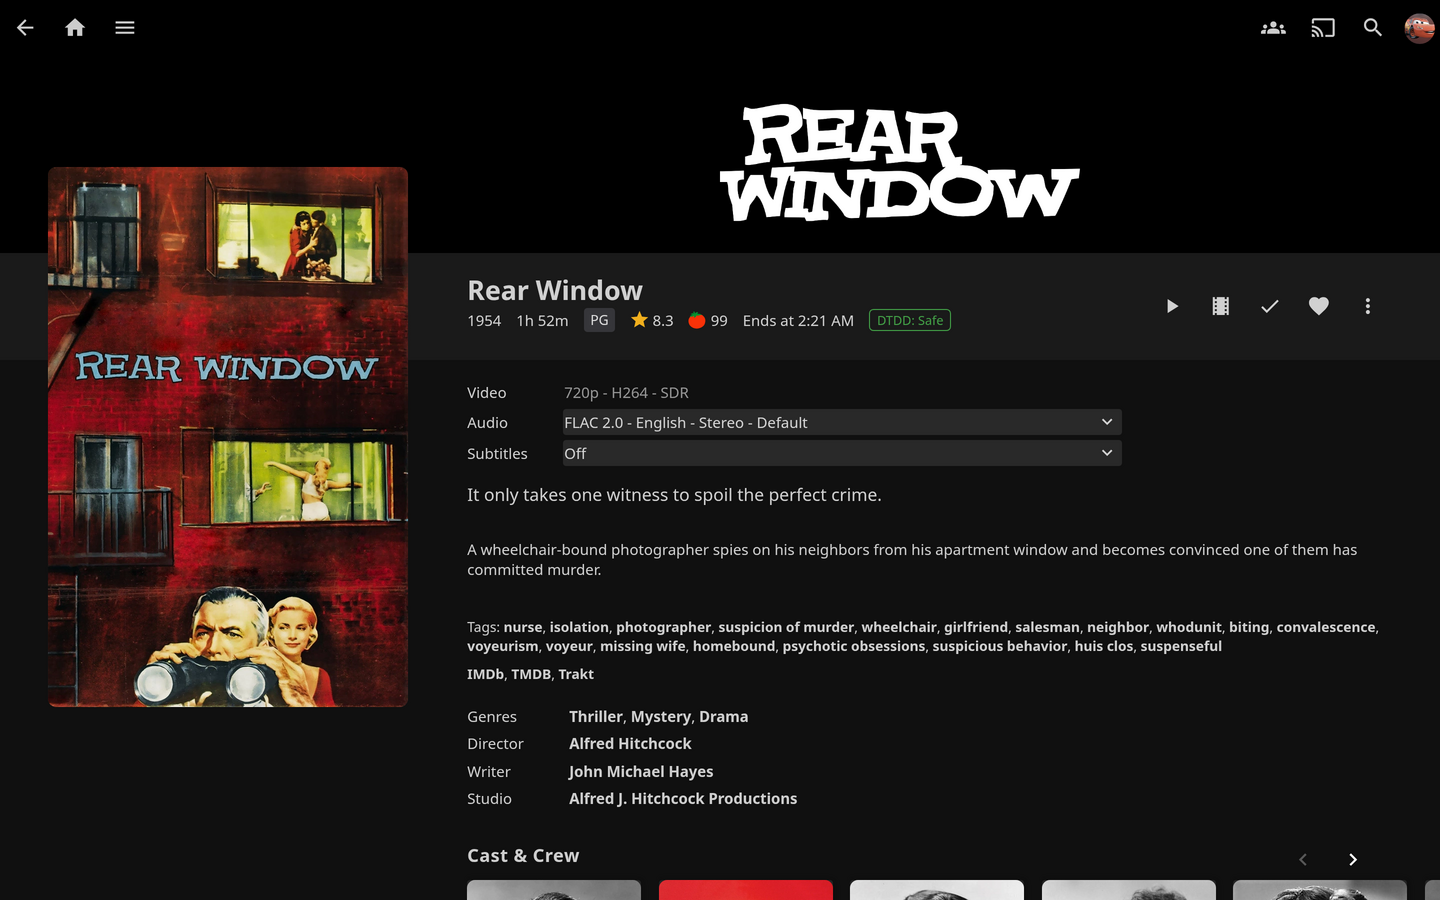
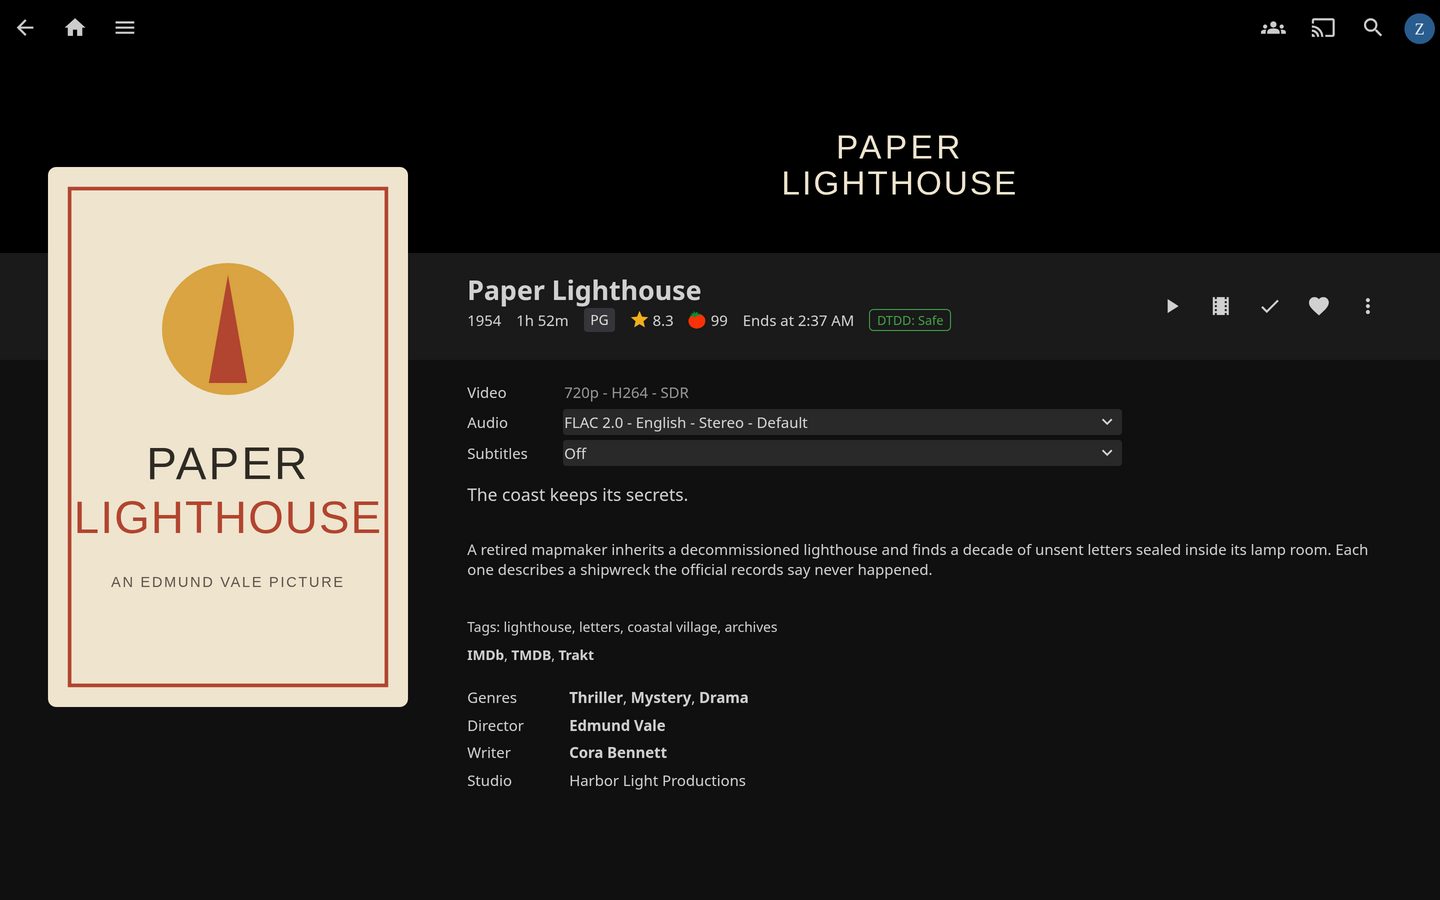
README screenshots: restage with fictional titles and original artwork
Replaces the real-movie captures with staged ones ('Winter Static',
'Paper Lighthouse'): fictional titles, synopses, credits, and generated
SVG posters/logos/avatar, so no third-party poster art or metadata text
ships in the public repo. The DTDD badges and picker are unchanged real
plugin output against the live server; a disclosure line under the
Screenshots heading says the demo titles are fictional.

diff --git a/README.md b/README.md
@@ -53,6 +53,8 @@ Install order:
 
 ## Screenshots
 
+_Screenshots are staged with fictional demo titles and original placeholder artwork; the DTDD badge, verdicts, and picker are real plugin output._
+
 **Not Safe** — a topic on the user's phobia list has YES votes on DoesTheDogDie:
 
 ![Not Safe badge on the item detail page](docs/screenshots/badge-not-safe.png)
